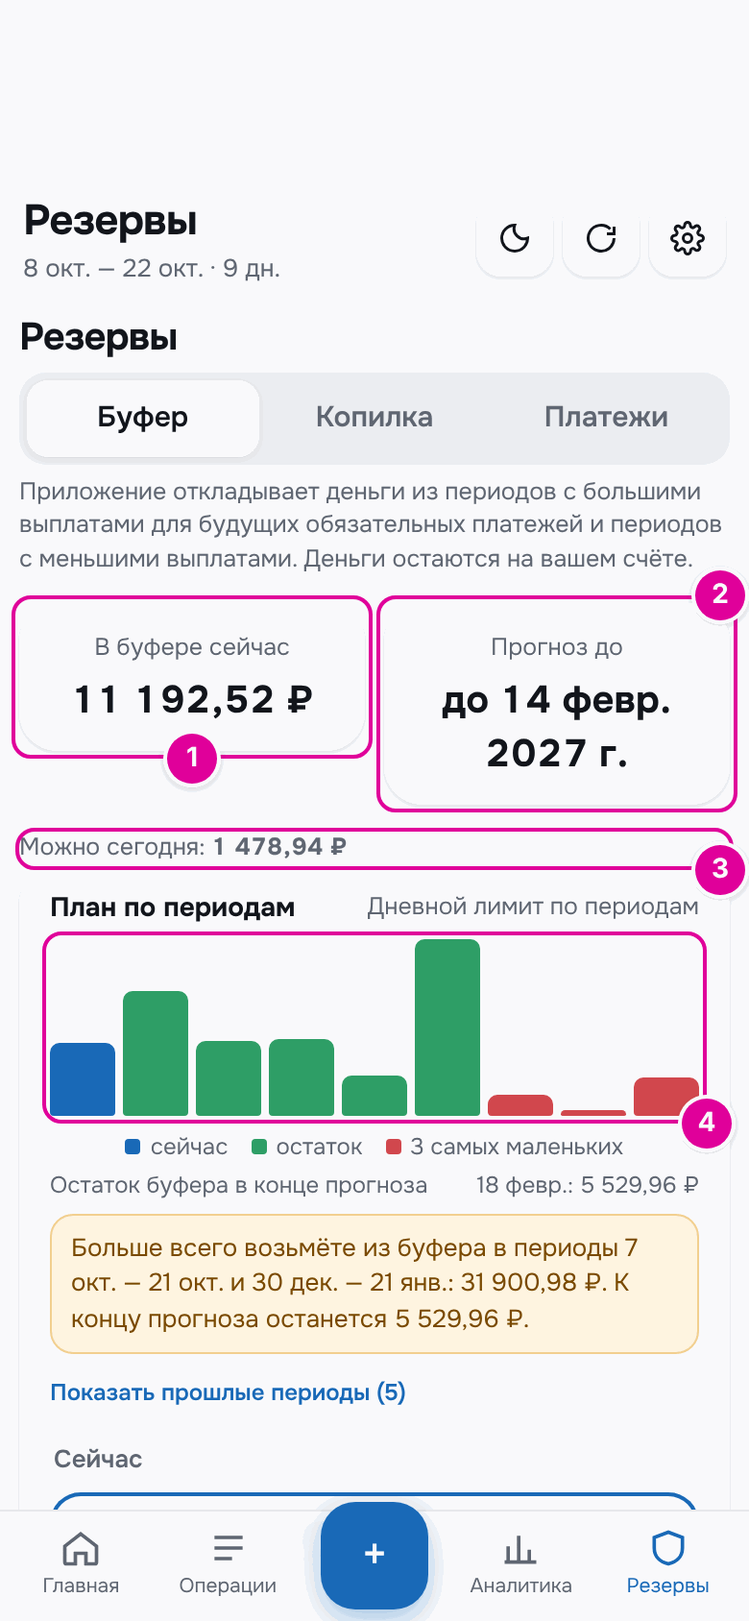
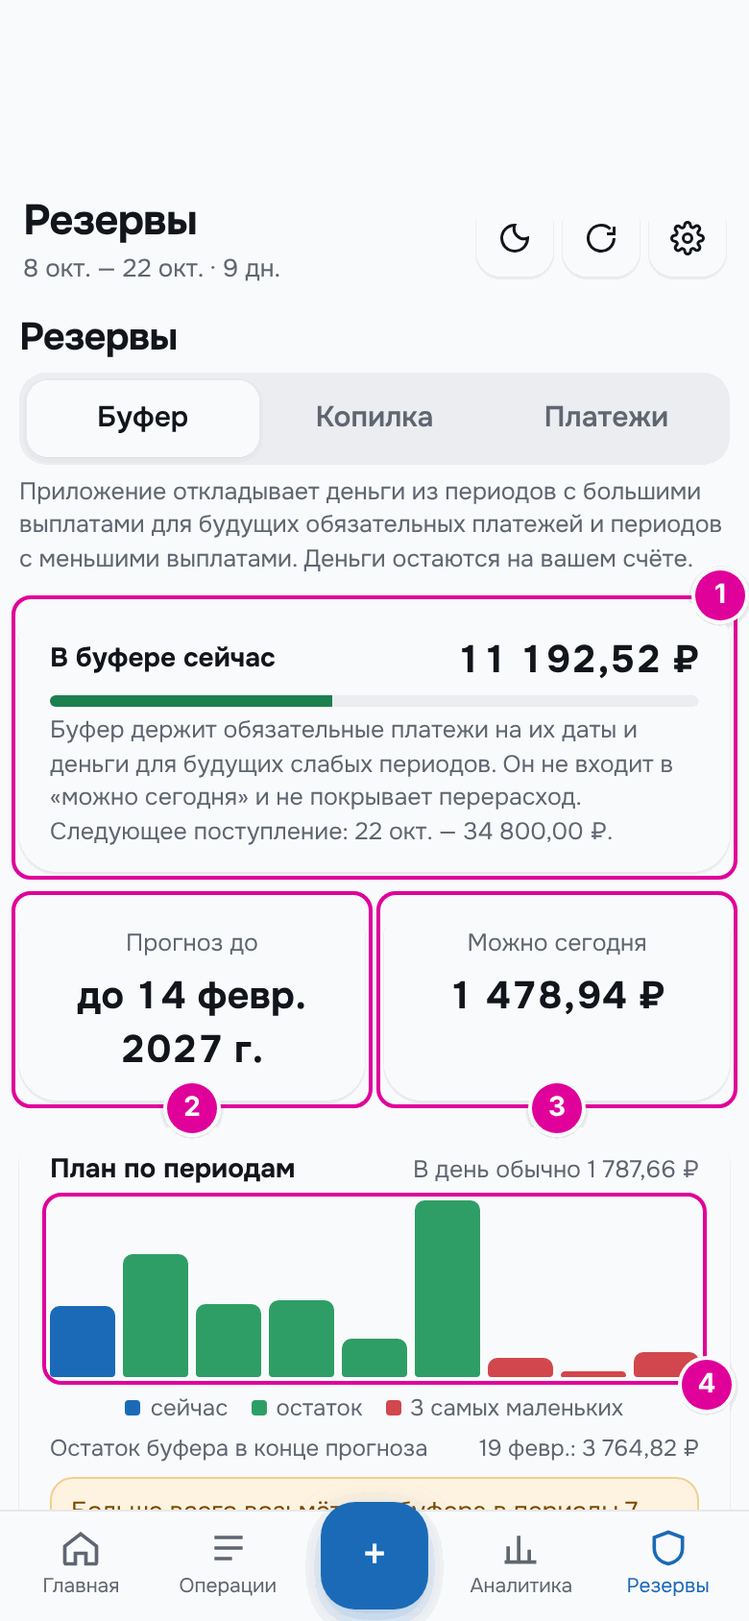
Буфер: блок «В буфере сейчас» перенесён с главной во вкладку «Резервы» → «Буфер»
Карточка с суммой, полоской и пояснением теперь стоит вверху вкладки
«Буфер» вместо маленькой карточки «В буфере сейчас». «Можно сегодня»
стало карточкой рядом с «Прогноз до».

Повторы не переносились: жёлтая плашка «Больше всего возьмёте из буфера…»
уже есть под графиком «План по периодам», а нехватку денег показывает
предупреждение вкладки (#bufferShortfall).

Инструкция: главы 3 и 5, скриншоты 03-home-forecast (вместо
03-home-buffer), 03-home-period и 05-payroll-buffer-page.

Claude-Session: https://claude.ai/code/session_01F2xp3GGSPM2mQvnmC4kdYY

Changed region(s): [[0.0, 0.3697, 1.0, 0.955]]

diff --git a/app/static/index.html b/app/static/index.html
@@ -7,7 +7,7 @@
   <title>Мой бюджет</title>
   <script src="https://telegram.org/js/telegram-web-app.js?63"></script>
   <script src="/static/theme.js?v=20261020-daily-cap"></script>
-  <link rel="stylesheet" href="/static/styles.css?v=20261026-date-sort" />
+  <link rel="stylesheet" href="/static/styles.css?v=20261026-buffer-move" />
 <link href="https://fonts.googleapis.com/css2?family=Onest:wght@400;500;600;700;800&display=swap" rel="stylesheet" />
 </head>
 <body>
@@ -77,13 +77,6 @@
         <div class="card home-recent">
           <div class="section-head"><h3>Последние операции</h3><button class="link-btn" type="button" data-go="operations">Все</button></div>
           <div id="homeRecent" class="list"></div>
-        </div>
-        <div class="card home-buffer">
-          <div class="section-head"><h3>В буфере сейчас</h3><strong class="summary-number num" id="reserveBalance">—</strong></div>
-          <div class="meter"><span id="bufferMeter"></span></div>
-          <p class="muted" id="reserveReason">—</p>
-          <div id="deficitWarning" class="warning hidden"></div>
-          <div id="bufferForecastWarning" class="warning hidden"></div>
         </div>
         <div class="card home-forecast"><div class="section-head"><h3>Следующие периоды</h3><button class="link-btn" type="button" data-go="buffer">Все</button></div><div id="forecastList" class="list"></div></div>
       </section>
@@ -168,11 +161,15 @@
       <section class="page" data-page="buffer"><h2 class="page-title">Резервы</h2><div class="segmented" role="tablist" aria-label="Тип резерва"><button role="tab" data-seg="buffer" aria-selected="false" class="payroll-only">Буфер</button><button role="tab" data-seg="obligations" aria-selected="false" class="irregular-only">На обязательные</button><button role="tab" data-seg="reserve" aria-selected="false" class="irregular-only">Резерв</button><button role="tab" data-seg="piggy" aria-selected="false">Копилка</button><button role="tab" data-seg="plan" aria-selected="false">Платежи</button></div>
         <p class="muted buffer-intro">Приложение откладывает деньги из периодов с большими выплатами для будущих обязательных платежей и периодов с меньшими выплатами. Деньги остаются на вашем счёте.</p>
         <div id="bufferDisabled" class="warning hidden">Включите безопасный дневной лимит в настройках.</div>
-        <div class="grid2 buffer-summary">
-          <div class="card"><span class="muted">В буфере сейчас</span><strong class="summary-number" id="bufferPageBalance">—</strong></div>
-          <div class="card"><span class="muted">Прогноз до</span><strong class="summary-number" id="bufferHorizon">—</strong></div>
+        <div class="card buffer-now">
+          <div class="section-head"><h3>В буфере сейчас</h3><strong class="summary-number num" id="reserveBalance">—</strong></div>
+          <div class="meter"><span id="bufferMeter"></span></div>
+          <p class="muted" id="reserveReason">—</p>
         </div>
-        <div class="muted">Можно сегодня: <strong id="bufferPageDaily">—</strong></div>
+        <div class="grid2 buffer-summary">
+          <div class="card"><span class="muted">Прогноз до</span><strong class="summary-number" id="bufferHorizon">—</strong></div>
+          <div class="card"><span class="muted">Можно сегодня</span><strong class="summary-number" id="bufferPageDaily">—</strong></div>
+        </div>
         <div id="bufferShortfall" class="warning hidden"></div>
         <div id="bufferSpare" class="card buffer-spare hidden">
           <div class="section-head"><h3>Лишнее в буфере</h3><strong class="summary-number num" id="bufferSpareAmount">—</strong></div>
@@ -700,9 +697,9 @@
   <div id="toast" class="toast" role="status" aria-live="polite"></div>
   <script src="/static/budget-date.js?v=20261020-daily-cap"></script>
   <script src="/static/money-input.js?v=20261020-daily-cap"></script>
-  <script src="/static/app.js?v=20261020-daily-cap"></script>
-  <script src="/static/cashflow-ui.js?v=20261020-daily-cap"></script>
-  <script src="/static/buffer-ui.js?v=20261020-plan-sum"></script>
+  <script src="/static/app.js?v=20261026-buffer-move"></script>
+  <script src="/static/cashflow-ui.js?v=20261026-buffer-move"></script>
+  <script src="/static/buffer-ui.js?v=20261026-buffer-move"></script>
   <script src="/static/design-ui.js?v=20261011-canvas-design"></script>
   <script src="/static/backup.js?v=20260925-excel"></script>
   <script src="/static/analytics-ui.js?v=20261026-date-sort"></script>

diff --git a/app/static/styles.css b/app/static/styles.css
@@ -384,7 +384,7 @@ html,body{width:100%;max-width:100%;overflow-x:hidden}
       "today period"
       "overspend period"
       "expense period"
-      "buffer forecast";
+      "forecast forecast";
     gap:16px 20px;
     align-items:start;
   }
@@ -393,13 +393,12 @@ html,body{width:100%;max-width:100%;overflow-x:hidden}
     grid-template-areas:
       "today period"
       "expense period"
-      "buffer forecast";
+      "forecast forecast";
   }
   .page[data-page="home"] .today{grid-area:today}
   .page[data-page="home"] .overspend-panel{grid-area:overspend;margin:0}
   .page[data-page="home"] .quick-expense{grid-area:expense;margin:0}
   .page[data-page="home"] .period{grid-area:period;margin:0}
-  .page[data-page="home"] .home-buffer{grid-area:buffer;margin:0}
   .page[data-page="home"] .home-forecast{grid-area:forecast;margin:0}
 
   /* A plain 2-column grid locks every row's height to its tallest cell, so a
@@ -721,7 +720,7 @@ body{padding-bottom:calc(66px + env(safe-area-inset-bottom))}
       "quick quick money money money money"
       "overspend overspend overspend overspend overspend overspend"
       "recent recent recent bills bills bills"
-      "buffer buffer buffer forecast forecast forecast";
+      "forecast forecast forecast forecast forecast forecast";
     gap:8px;
     align-items:start;
   }
@@ -730,7 +729,7 @@ body{padding-bottom:calc(66px + env(safe-area-inset-bottom))}
       "today today period period period period"
       "quick quick money money money money"
       "recent recent recent bills bills bills"
-      "buffer buffer buffer forecast forecast forecast";
+      "forecast forecast forecast forecast forecast forecast";
   }
   .page[data-page="home"] .today.hero-card{grid-area:today;margin:0;align-self:stretch}
   .page[data-page="home"] .quick-actions{grid-area:quick;margin:0;align-self:stretch;grid-template-columns:1fr}
@@ -738,7 +737,6 @@ body{padding-bottom:calc(66px + env(safe-area-inset-bottom))}
   .page[data-page="home"] .period{grid-area:period;margin:0;align-self:stretch}
   .page[data-page="home"] .home-recent{grid-area:recent;margin:0}
   .page[data-page="home"] .home-bills{grid-area:bills;margin:0}
-  .page[data-page="home"] .home-buffer{grid-area:buffer;margin:0}
   .page[data-page="home"] .home-forecast{grid-area:forecast;margin:0}
   .page[data-page="home"] .overspend-panel{grid-area:overspend;margin:0}
   .hero-big{font-size:40px}
@@ -787,7 +785,7 @@ body{padding-bottom:calc(66px + env(safe-area-inset-bottom))}
 body:not(.mode-irregular) .irregular-only{display:none !important}
 body.mode-irregular .payroll-only{display:none !important}
 /* Home cards of the payroll mode (card period, buffer, forecast). */
-body.mode-irregular .page[data-page="home"] :is(.money-tiles,.period,.home-buffer,.home-forecast){display:none !important}
+body.mode-irregular .page[data-page="home"] :is(.money-tiles,.period,.home-forecast){display:none !important}
 .irr-stats{display:grid;grid-template-columns:repeat(2,minmax(0,1fr));gap:12px}
 .irr-stat{display:flex;flex-direction:column;gap:2px;min-width:0}
 .irr-stat span{color:var(--muted);font-size:13px}
@@ -929,14 +927,14 @@ body.mode-irregular .toast{bottom:calc(128px + env(safe-area-inset-bottom))}
       "quick quick quick period period period"
       "overspend overspend overspend overspend overspend overspend"
       "recent recent recent bills bills bills"
-      "buffer buffer buffer forecast forecast forecast";
+      "forecast forecast forecast forecast forecast forecast";
   }
   .page[data-page="home"].active:has(#overspendPanel.hidden){
     grid-template-areas:
       "today today today period period period"
       "quick quick quick period period period"
       "recent recent recent bills bills bills"
-      "buffer buffer buffer forecast forecast forecast";
+      "forecast forecast forecast forecast forecast forecast";
   }
   .page[data-page="home"] .quick-actions{grid-template-columns:repeat(3,minmax(0,1fr))}
   .hero-card .money-tiles{grid-template-columns:repeat(4,minmax(0,1fr))}
@@ -966,6 +964,8 @@ body.mode-irregular .toast{bottom:calc(128px + env(safe-area-inset-bottom))}
 .buf-chart-keys .k-cur{background:var(--accent)} .buf-chart-keys .k-ok{background:var(--bar-ok)} .buf-chart-keys .k-low{background:var(--bar-low)}
 .pc{border-radius:16px}
 .page[data-page="buffer"] .buffer-summary .card{text-align:center}
+.page[data-page="buffer"] .buffer-now{margin:0 0 8px}
+.page[data-page="buffer"] .buffer-summary{align-items:stretch}
 
 /* Аналитика: средняя сумма — отдельной строкой под графиком */
 .analytics-legend span:last-child{flex-basis:100%;padding-top:8px;border-top:1px solid var(--line);font-size:13px;color:var(--text);font-weight:600}

diff --git a/app/static/buffer-ui.js b/app/static/buffer-ui.js
@@ -86,7 +86,7 @@
     const disabled = document.getElementById("bufferDisabled");
     disabled?.classList.toggle("hidden", Boolean(data.enabled));
     setText("bufferHorizon", data.enabled ? `до ${formatDate(data.horizon_end, true)}` : "выключен");
-    setText("bufferPageBalance", data.enabled ? formatMoney(data.buffer_balance) : "—");
+    setText("reserveBalance", data.enabled ? formatMoney(data.buffer_balance) : "—");
     setText("bufferPageDaily", data.enabled ? formatMoney(data.available_today) : "—");
     const shortfall = document.getElementById("bufferShortfall");
     if (data.enabled && Number(data.capital_shortfall || 0) > 0) {
@@ -113,8 +113,7 @@
     const cards = document.getElementById("planCards");
     const chart = document.getElementById("bufChart");
     const warning = document.getElementById("bufWarn");
-    const homeWarning = document.getElementById("bufferForecastWarning");
-    warning.classList.add("hidden"); homeWarning.classList.add("hidden");
+    warning.classList.add("hidden");
     chart.innerHTML = ""; setText("bufChartEnd", "—"); setText("planDaily", "");
     const periods = data.enabled ? (data.periods || []).map(withStartCapital) : [];
     if (!periods.length) {
@@ -143,8 +142,8 @@
     const worst = periods.map((p,i)=>({...p,index:i})).filter(p=>p.take>0).sort((a,b)=>b.take-a.take).slice(0,2).sort((a,b)=>a.index-b.index);
     if(worst.length) {
       const text = "Больше всего возьмёте из буфера в периоды "+worst.map(p=>formatDate(p.start)+" — "+formatDate(p.end)).join(" и ")+": "+formatMoney(worst.reduce((a,p)=>a+Number(p.take),0))+". К концу прогноза останется "+formatMoney(last.buffer)+".";
-      warning.textContent=text;homeWarning.textContent=text;
-      warning.classList.remove("hidden");homeWarning.classList.remove("hidden");
+      warning.textContent=text;
+      warning.classList.remove("hidden");
     }
     // What the period does with the buffer, in words: green goes into it,
     // red is taken from it.

diff --git a/app/static/app.js b/app/static/app.js
@@ -149,9 +149,6 @@ function renderDashboard() {
   $("reserveReason").textContent = d.reserve.reason;
   const pct = d.period_budget > 0 ? Math.min(100, Math.max(0, d.spent / d.period_budget * 100)) : 0;
   $("dayProgress").style.width = `${pct}%`;
-  const warn = $("deficitWarning");
-  if (d.deficit > 0) { warn.textContent = `Не хватает ${money(d.deficit)} даже после доступного резерва. Проверьте будущие платежи или доходы.`; warn.classList.remove("hidden"); }
-  else warn.classList.add("hidden");
   $("forecastList").innerHTML = d.forecast.length ? d.forecast.map(p => `
     <div class="list-row"><div class="row-text"><div class="row-title">${fmtDate(p.start)} — ${fmtDate(p.end)}</div><div class="row-sub">Доход ${money(p.income)} · платежи ${money(p.mandatory)}</div></div><div class="amount ${p.net < 0 ? 'expense':'income'}">${p.net >= 0 ? '+' : ''}${money(p.net)}</div></div>`).join("") : `<div class="empty">Добавьте суммы зарплаты и аванса, чтобы увидеть прогноз.</div>`;
 }

diff --git a/app/static/cashflow-ui.js b/app/static/cashflow-ui.js
@@ -126,16 +126,6 @@
     }
     setText("reserveReason", reason.trim());
 
-    const warning = document.getElementById("deficitWarning");
-    if (warning) {
-      if (Number(flow.capital_shortfall || 0) > 0) {
-        warning.textContent = `Чтобы не уйти в минус даже без ежедневных трат, не хватает ${formatMoney(flow.capital_shortfall)}.`;
-        warning.classList.remove("hidden");
-      } else {
-        warning.classList.add("hidden");
-      }
-    }
-
     const progress = document.getElementById("dayProgress");
     if (progress) {
       const budget = Number(flow.period_budget || 0);

diff --git a/scripts/make_guide_screenshots.py b/scripts/make_guide_screenshots.py
@@ -772,9 +772,8 @@ def ch03(app: App, sh: Shooter, texts: dict) -> None:
         M(3, "#periodStrip .day.bill >> nth=-1", pad=2), M(4, "#periodStrip .day.payday", pad=2),
         M(5, ".card.home-bills"), M(6, ".card.home-recent"),
     ], facts={"Заголовок": "#nextPayTitle", "Скоро платежи": "#homeBills"})
-    sh.scroll(".card.home-buffer", "start")
-    sh.shot("03-home-buffer.png", [M(1, ".card.home-buffer"), M(2, ".card.home-forecast")],
-            facts={"В буфере сейчас": "#reserveBalance", "Пояснение": "#reserveReason"})
+    sh.scroll(".card.home-forecast", "start")
+    sh.shot("03-home-forecast.png", [M(1, ".card.home-forecast")])
     # Пример: обед в кафе за 450 ₽.
     sh.scroll_top()
     sh.page.click("#quickExpenseBtn")
@@ -891,9 +890,9 @@ def ch05(app: App, sh: Shooter, texts: dict) -> None:
     # Раздел «Резервы» → «Буфер»
     sh.nav("buffer")
     sh.shot("05-payroll-buffer-page.png", [
-        M(1, "#bufferPageBalance >> xpath=.."), M(2, "#bufferHorizon >> xpath=.."),
-        M(3, "#bufferPageDaily >> xpath=..", pad=2), M(4, "#bufChart"),
-    ], facts={"В буфере сейчас": "#bufferPageBalance", "Прогноз до": "#bufferHorizon",
+        M(1, ".card.buffer-now"), M(2, "#bufferHorizon >> xpath=.."),
+        M(3, "#bufferPageDaily >> xpath=.."), M(4, "#bufChart"),
+    ], facts={"В буфере сейчас": "#reserveBalance", "Пояснение": "#reserveReason", "Прогноз до": "#bufferHorizon",
               "Можно сегодня": "#bufferPageDaily", "В день": "#planDaily", "Конец прогноза": "#bufChartEnd"})
     cur = sh.page.locator("#planCards article.pc.cur")
     sh.scroll(cur, "center")

diff --git a/docs/guide/05-payroll.md b/docs/guide/05-payroll.md
@@ -83,11 +83,13 @@
 
 Всё о буфере собрано в разделе «Резервы» → «Буфер». Чтобы открыть его, нажмите «Резервы» на нижней панели.
 
-![Вкладка «Буфер». Отмечены: «В буфере сейчас» 11 192,52 ₽, «Прогноз до» 14 февраля 2027 г., строка «Можно сегодня: 1 478,94 ₽» и график «План по периодам»](images/05-payroll-buffer-page.png)
+![Вкладка «Буфер». Отмечены: блок «В буфере сейчас» 11 192,52 ₽ с пояснением, «Прогноз до» 14 февраля 2027 г., «Можно сегодня» 1 478,94 ₽ и график «План по периодам»](images/05-payroll-buffer-page.png)
 
 *Вкладка «Буфер». 1 — сколько денег в буфере сейчас. 2 — до какой даты считается прогноз. 3 — сколько ещё можно потратить сегодня. 4 — график остатка буфера по периодам.*
 
-На графике каждый столбик — остаток буфера в конце периода. Синий столбик — текущий период, красные — три периода с самым маленьким остатком. Под графиком написано, сколько останется в буфере к концу прогноза.
+В блоке «В буфере сейчас» под суммой — пояснение: что держит буфер, сколько зарезервировано на обязательные платежи, «Максимум в день» и сколько сверх него ушло в копилку или осталось в буфере, сколько накоплено на годовые платежи и когда следующее поступление. Строки про максимум, копилку и годовые платежи появляются, только если они есть.
+
+На графике каждый столбик — остаток буфера в конце периода. Синий столбик — текущий период, красные — три периода с самым маленьким остатком. Под графиком написано, сколько останется в буфере к концу прогноза. Жёлтая плашка под ним подсказывает, в какие периоды из буфера возьмут больше всего денег.
 
 Ниже графика — карточки периодов: «Сейчас» и «Следующие». Кнопка «Показать прошлые периоды» показывает уже закончившиеся. На этой вкладке период начинается в сам день выплаты, ведь в этот день деньги приходят в буфер. Поэтому зарплата 7 октября здесь кормит период «7 окт. — 21 окт.», хотя тратить её начинают с 8-го.
 

diff --git a/docs/guide/03-home.md b/docs/guide/03-home.md
@@ -46,11 +46,11 @@
 5. **«Скоро платежи»** — до трёх ближайших неоплаченных платежей периода: «завтра», «через 11 дней», «просрочен». Кнопка «Все» открывает полный список.
 6. **«Последние операции»** — четыре последние записи. Кнопка «Все» открывает раздел «Операции».
 
-![Нижняя часть главного экрана. Отмечены блоки «В буфере сейчас» с пояснением и предупреждением и «Следующие периоды»](images/03-home-buffer.png)
+![Нижняя часть главного экрана. Отмечен блок «Следующие периоды»](images/03-home-forecast.png)
 
-*1 — «В буфере сейчас»: сколько денег в буфере и когда следующее поступление. 2 — «Следующие периоды»: доход и платежи каждого будущего периода.*
+*«Следующие периоды»: доход и платежи каждого будущего периода.*
 
-В блоке «Следующие периоды» справа зелёным показано, сколько остаётся от дохода периода после обязательных платежей. Жёлтая плашка в блоке буфера подсказывает, в какие периоды из буфера возьмут больше всего денег.
+Справа зелёным показано, сколько остаётся от дохода периода после обязательных платежей. Кнопка «Все» открывает вкладку «Резервы» → «Буфер». Там же блок «В буфере сейчас»: сколько денег в буфере, зачем они и когда следующее поступление. Подробнее — в главе [«Режим «Зарплата и аванс»»](05-payroll.md).
 
 ## Пошагово: почему «Лимит на день» меняется
 
